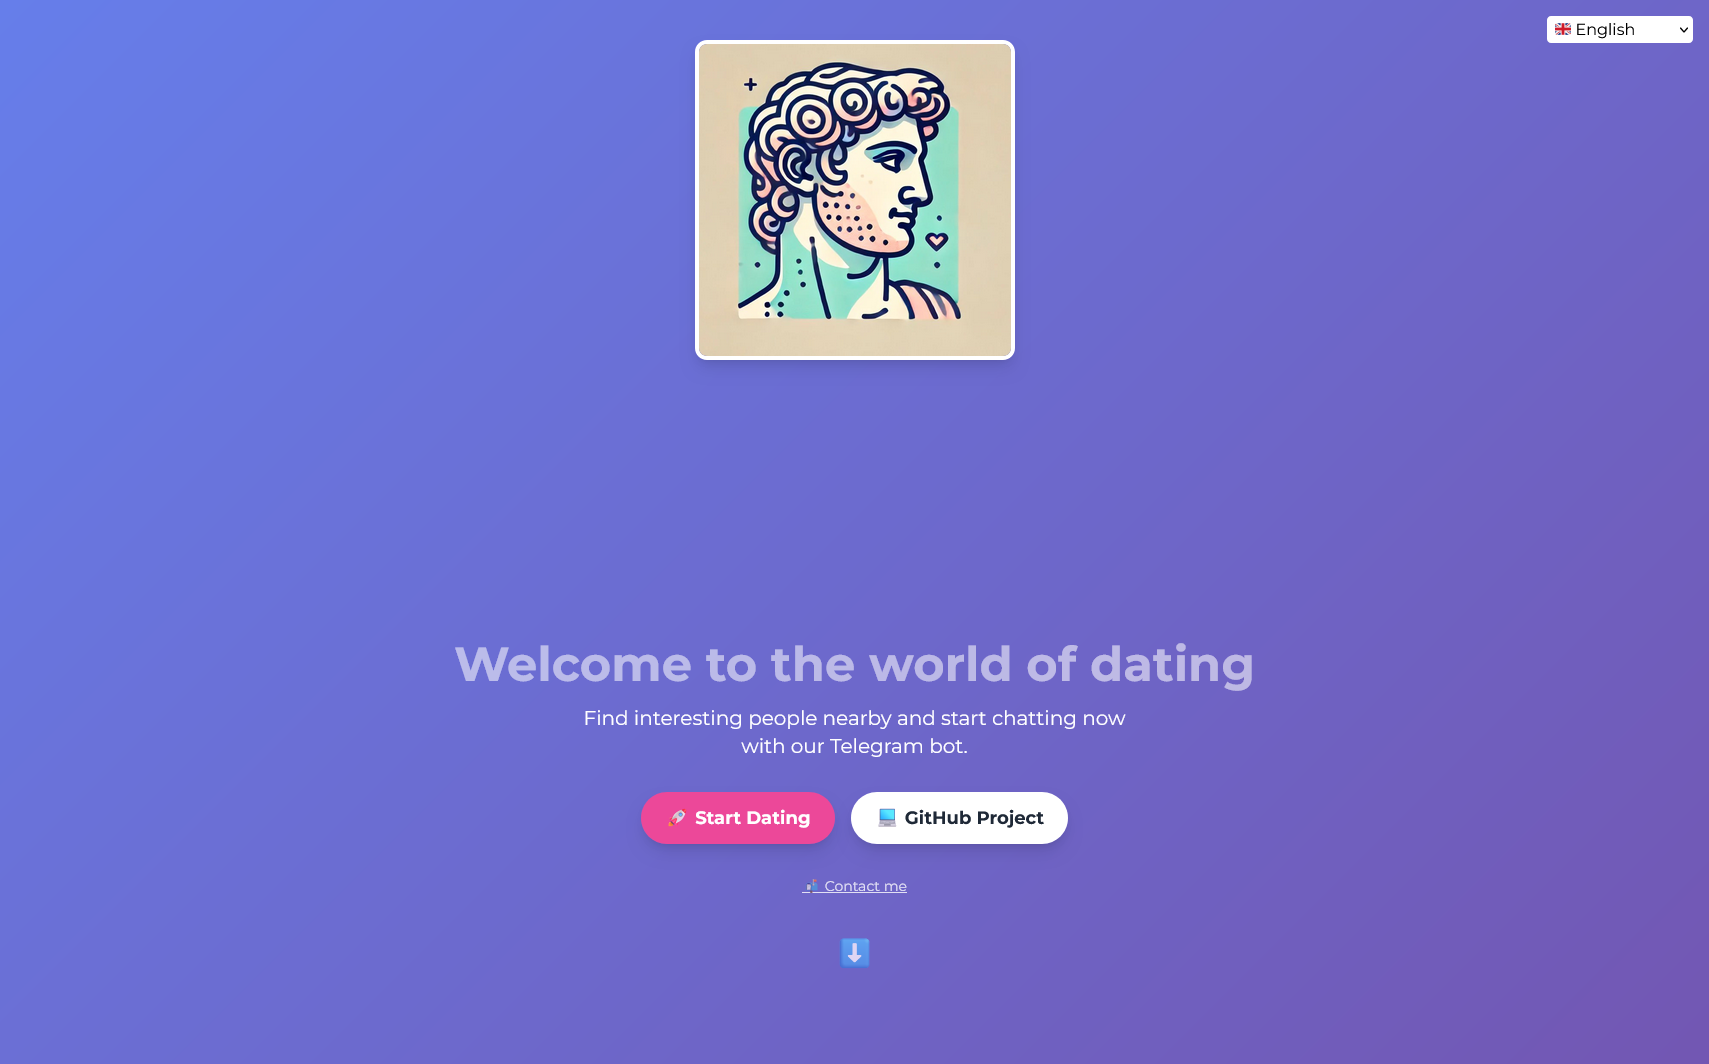
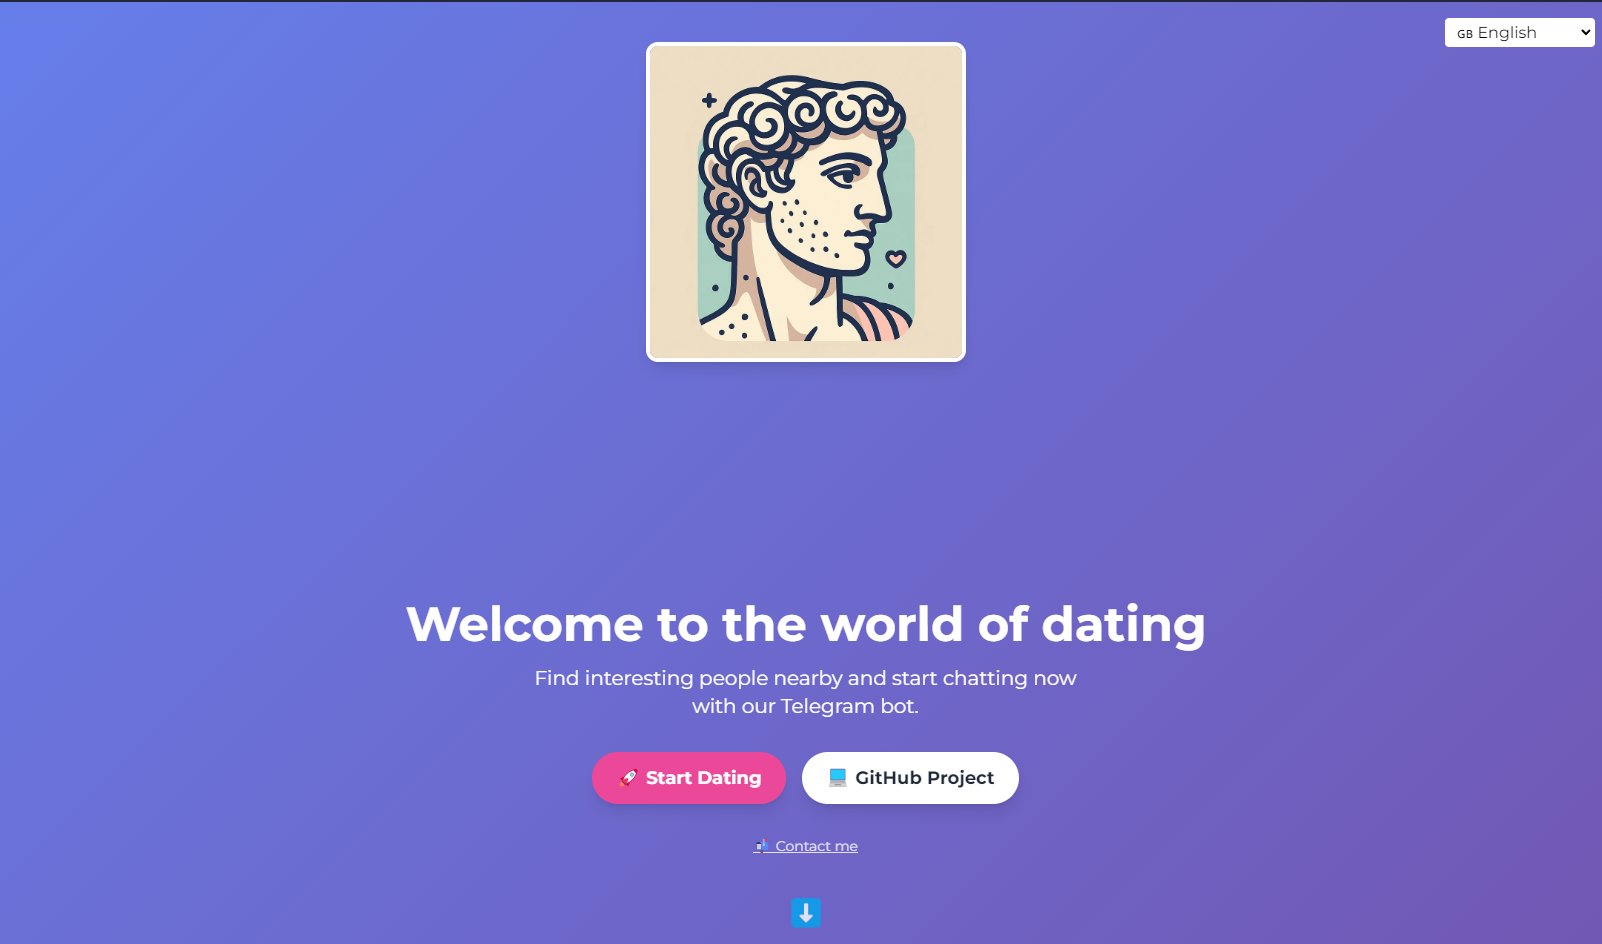
Update

diff --git a/index.html b/index.html
@@ -44,7 +44,7 @@
     </div>
 
     <header class="mt-10">
-      <img src="logo.jpg" alt="Logo"
+      <img src="logo.png" alt="Logo"
         class="w-80 h-80 rounded-xl mx-auto shadow-lg border-4 border-white" />
     </header>
 
